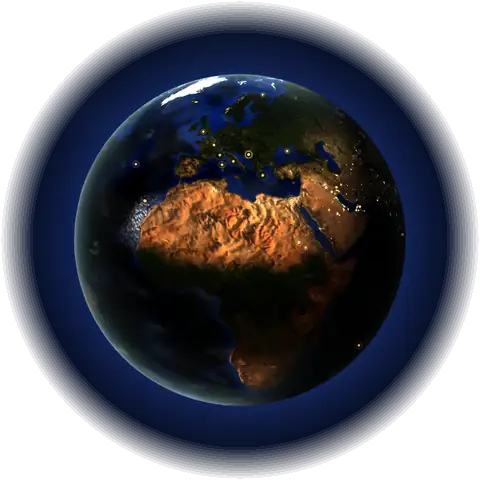
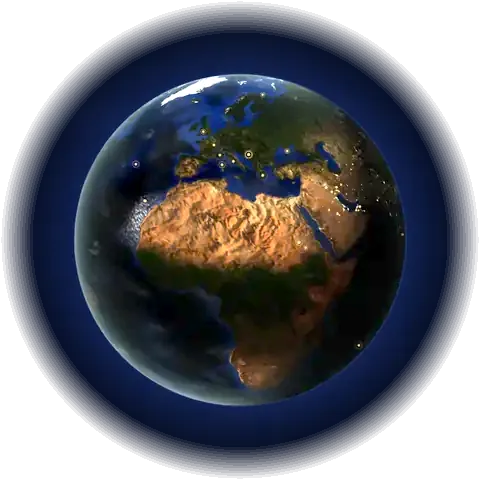
Brighten the globe on phones at no extra cost
In LOW_POWER the planet shader lifts dark tones and puts the sun closer
to the viewer, so forests and mountains around sites such as Caral or
Koh Ker stay readable. Clouds follow the same sun. The phone poster
gets the same tone curve so the swap to the live globe does not jump.

diff --git a/src/components/planetShaders.ts b/src/components/planetShaders.ts
@@ -74,16 +74,27 @@ vec3 bumpedNormal = normalize(abs(fDet) * normalizedNormal - terrainDepth * vGra
 vec3 shadeNormal = mix(bumpedNormal, normalizedNormal, waterMask);
 #endif
 vec3 cityLights = texture2D(nightBlendTexture, vCustomUv).rgb * gl_FragColor.rgb * nightLights;
+// On phones the sun sits closer to the viewer and nights are less dark: a zoomed-in site under the
+// half-height sheet would otherwise fall on the night side. Same work per pixel, only the constants differ.
+#ifdef LOW_POWER
+vec3 viewSunDir = normalize(vec3(-0.45, 0.3, 0.85));
+const float nightFloor = 0.3;
+#else
 vec3 viewSunDir = normalize(vec3(-0.9, 0.18, 0.4));
+const float nightFloor = 0.08;
+#endif
 float ndl = dot(normalizedNormal, viewSunDir);
 float dayAmt = smoothstep(-0.05, 0.35, ndl);
 float relief = dot(shadeNormal, viewSunDir) - ndl;
 gl_FragColor.rgb *= clamp(1.0 + relief * terrainShade * dayAmt, 0.55, 1.6);
 float nightFactor  = smoothstep(0.18, -0.30, ndl);
 float lightsFactor = smoothstep(0.30, -0.35, ndl);
-gl_FragColor.rgb = mix(gl_FragColor.rgb, gl_FragColor.rgb * 0.08, nightFactor);
+gl_FragColor.rgb = mix(gl_FragColor.rgb, gl_FragColor.rgb * nightFloor, nightFactor);
 gl_FragColor.rgb += cityLights * lightsFactor;
-#ifndef LOW_POWER
+#ifdef LOW_POWER
+// Lift dark land (forests, mountains) so sites stay readable on small screens.
+gl_FragColor.rgb = pow(max(gl_FragColor.rgb, vec3(0.0)), vec3(0.72)) * 1.08;
+#else
 vec3 halfDir = normalize(viewSunDir + viewDir);
 float ripple = snoise(vec3(vCustomUv * 240.0, time * 4.0));
 float ndh = max(dot(normalizedNormal, halfDir) + ripple * 0.02, 0.0);
@@ -99,7 +110,11 @@ float cloudNoise = snoise(vec3(vCloudUv.x * 20.0 + uTime + uPhase, vCloudUv.y * 
 float cloudNdv = max(dot(normalize(vNormal), normalize(vViewPosition)), 0.0);
 float cloudEdge = pow(1.0 - cloudNdv, 3.0);
 float cloudMod = mix(cloudNoise, 1.0, cloudEdge);
+#ifdef LOW_POWER
+float cloudNdl = dot(normalize(vNormal), normalize(vec3(-0.45, 0.3, 0.85)));
+#else
 float cloudNdl = dot(normalize(vNormal), normalize(vec3(-0.9, 0.18, 0.4)));
+#endif
 float cloudDay = 1.0 - smoothstep(0.30, -0.30, cloudNdl) * 0.9;
 gl_FragColor.a *= cloudMod * uOpacity * cloudDay;
 `;

diff --git a/src/components/Globe3D.tsx b/src/components/Globe3D.tsx
@@ -410,6 +410,7 @@ const Globe3D = ({
         layers.forEach((layer, i) => {
           const geometry = new THREE.SphereGeometry(RADIUS * layer.height, lowPower ? 40 : 64, lowPower ? 40 : 64);
           const material = new THREE.MeshStandardMaterial({ map: cloudTexture, transparent: true, depthWrite: false });
+          material.defines = { ...material.defines, ...defines };
           material.onBeforeCompile = (shader) => {
             Object.assign(shader.uniforms, {
               uTime: clock.cloud,

diff --git a/CLAUDE.md b/CLAUDE.md
@@ -27,7 +27,7 @@ Install with `bun install --frozen-lockfile`: `npm install` currently crashes on
 - Continent values stay as Italian keys (`Europa`, `Nord America`); `tc()` translates them.
 
 ## Planet globe
-`src/components/Globe3D.tsx` is adapted from the GetLayers Planet scene. Its assets are on Vercel Blob (store `pyramid-explorer-assets`), not in Git. For local work, copy them to `public/planet` and set `VITE_PLANET_ASSETS=/planet` in `.env.local`. Pins come from `latLonToUnit` in `src/utils/geo.ts`. It starts after first paint behind `public/globe-poster-*.webp`, and lowers quality on slow devices. If the default view changes, regenerate the poster.
+`src/components/Globe3D.tsx` is adapted from the GetLayers Planet scene. Its assets are on Vercel Blob (store `pyramid-explorer-assets`), not in Git. For local work, copy them to `public/planet` and set `VITE_PLANET_ASSETS=/planet` in `.env.local`. Pins come from `latLonToUnit` in `src/utils/geo.ts`. It starts after first paint behind `public/globe-poster-*.webp`, and lowers quality on slow devices. If the default view changes, regenerate the poster. On phones (`LOW_POWER`) the shader lifts dark tones and uses a more frontal sun; `globe-poster-480.webp` (the phone poster) has the same tone curve applied, `pow(v, 0.72) × 1.08` on the globe disc, so the swap does not jump.
 
 ## URLs
 `/site/:id` opens a site. Query params hold filters and `compare=a,b`. Keep these stable: they are shareable.
